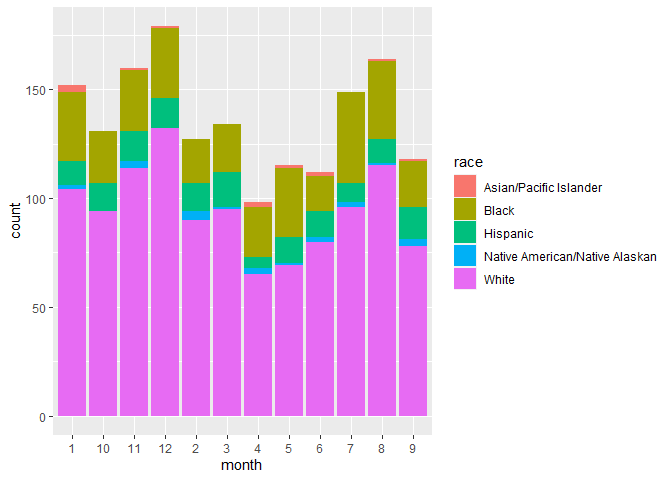
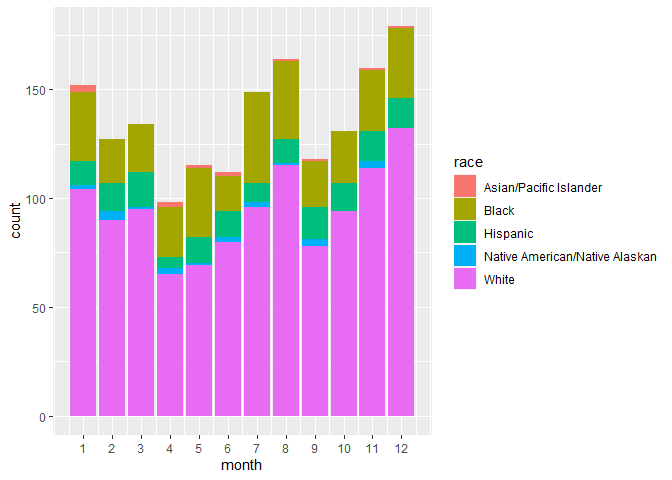
Case Study 5

diff --git a/DTS350TemplateMaster/Week_05/Case-Study-5.html b/DTS350TemplateMaster/Week_05/Case-Study-5.html
@@ -475,11 +475,10 @@ ggplot(oldsuicide)+
 <p>My second graph took a data set that was filtered out to people over 45 and death due to suicide. I found that white men account for the most and we need to target them during the WHOLE year, but especially during the winter months, from about October to January, so about late fall to mid-winter</p>
 <pre class="r"><code>accident &lt;- filter(data, intent == &quot;Accidental&quot;)
 
-accident$month &lt;- as.character(accident$month)
-
 ggplot(accident)+
-  geom_bar(mapping = aes(x = month, fill = race))</code></pre>
[1 lines of base64/hex data omitted]
+  geom_bar(mapping = aes(x = month, fill = race))+
+  scale_x_continuous(breaks = 1:12)</code></pre>
[1 lines of base64/hex data omitted]
 <p>My last graph I created, I took a look at the accidents. This has to do with general gun safety and is most likely the easiest to do away with. I think we need to empasize gun safety during August, November, and December, so early fall to winter.</p>
 </div>
 

diff --git a/DTS350TemplateMaster/Week_05/Case-Study-5.md b/DTS350TemplateMaster/Week_05/Case-Study-5.md
@@ -62,10 +62,9 @@ My second graph took a data set that was filtered out to people over 45 and deat
 ```r
 accident <- filter(data, intent == "Accidental")
 
-accident$month <- as.character(accident$month)
-
 ggplot(accident)+
-  geom_bar(mapping = aes(x = month, fill = race))
+  geom_bar(mapping = aes(x = month, fill = race))+
+  scale_x_continuous(breaks = 1:12)
 ```
 
 ![](Case-Study-5_files/figure-html/unnamed-chunk-4-1.png)<!-- -->
